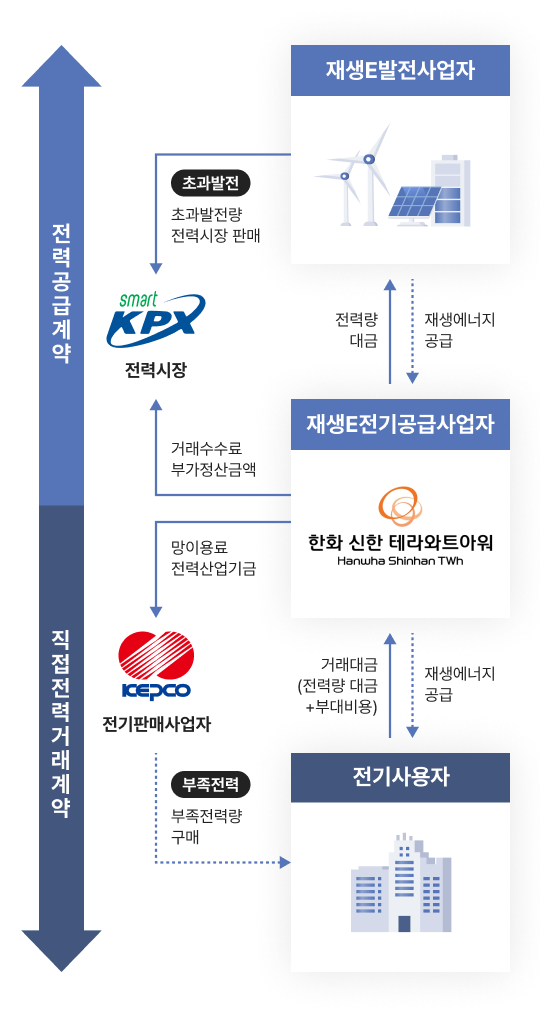
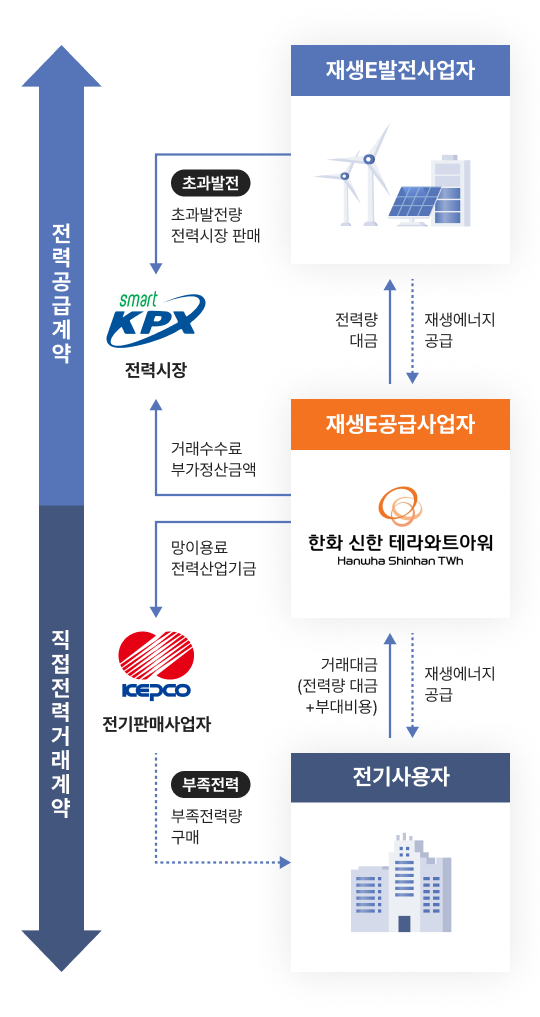
수정사항 1123 완료

Changed region(s): [[0.5333, 0.3658, 0.9481, 0.4572]]

diff --git a/src/css/page.css b/src/css/page.css
@@ -75,13 +75,14 @@ header.white + .mainPage .fullPager{--color: white;}
 .companyPage .historyArea strong{font-weight: 600; text-align: center; display: block;}
 .companyPage .historyArea ol::before{content: attr(title); font-weight: 600;}
 .companyPage .historyArea ol li{line-height: var(--lineHeight); --virtualColor: #DEDEDE; font-weight: 600; display: flex; align-items: flex-start;}
-.companyPage .historyArea ol li::before{content: ''; width: 8px; margin-right: 10px; aspect-ratio: 1; background-color: var(--virtualColor); border-radius: 100%; transform: translate(-50%, calc(var(--lineHeight) / 2 - 3px));}
+.companyPage .historyArea ol li::before{content: ''; flex-shrink: 0; aspect-ratio: 1; background-color: var(--virtualColor); border-radius: 100%; transform: translate(-50%, calc(var(--lineHeight) / 2 - 3px));}
 .companyPage .historyArea ol li:not(:last-child){position: relative;}
 .companyPage .historyArea ol li:not(:last-child)::after{content: ''; width: 2px; height: 100%; position: absolute; left: 0; top: calc(var(--lineHeight) / 2); background-color: var(--virtualColor); transform: translateX(-50%);}
 .companyPage .historyArea ol li small{line-height: var(--lineHeight); color: #999;}
 .companyPage .bottomArea{padding-block: var(--padding02); background: url('../images/company-bottomBG.png') no-repeat center / cover;}
 .companyPage .bottomArea::before{content: ''; display: block; aspect-ratio: 660 / 110; background: url(../images/logo2.png) no-repeat bottom center / cover;}
 .companyPage .bottomArea div{display: flex; justify-content: center; align-items: center; gap: 30px;}
+.companyPage .bottomArea div a b{margin-right: 0.2em;}
 
 
 /* 전력거래 솔루션, 발전자원 모집 페이지 공통 */
@@ -123,9 +124,9 @@ header.white + .mainPage .fullPager{--color: white;}
 .recruitPage .content-img{padding-block: var(--padding02) var(--padding03);}
 .recruitPage [class*="condition"][class*="Area"]{padding-bottom: var(--padding02); text-align: center;}
 .recruitPage [class*="condition"][class*="Area"] ul{display: flex;}
-.recruitPage [class*="condition"][class*="Area"] ul li{padding: var(--spacing); text-align: left; background-color: white; box-shadow: 0px 0px 40px 0px rgba(0, 0, 0, 0.07); box-sizing: border-box; position: relative;}
+.recruitPage [class*="condition"][class*="Area"] ul li{text-align: left; background-color: white; box-shadow: 0px 0px 40px 0px rgba(0, 0, 0, 0.07); box-sizing: border-box; position: relative;}
 .recruitPage [class*="condition"][class*="Area"] ul li > *{display: block;}
-.recruitPage [class*="condition"][class*="Area"] ul li span{color: #666; font-weight: 300;}
+.recruitPage [class*="condition"][class*="Area"] ul li span{font-weight: 300;}
 .recruitPage [class*="condition"][class*="Area"] ul li b{font-weight: 600;}
 .recruitPage [class*="condition"][class*="Area"] ul li small{color: #999;}
 .recruitPage [class*="condition"][class*="Area"] ul li::after{aspect-ratio: 170 / 130; content: ''; position: absolute; right: 0; bottom: var(--spacing); background-repeat: no-repeat; background-position: top calc(100% / (var(--styleTotal) - 1) * var(--styleIdx)) center; background-size: 100%;}
@@ -180,7 +181,7 @@ header.white + .mainPage .fullPager{--color: white;}
 
 
 /* 관리자 - 로그인 페이지 */
-.adminPage{height: var(--fullHeight); background-color: var(--color-BG02); display: flex; justify-content: center; align-items: center;}
+.adminPage{height: 100vh; background-color: var(--color-BG02); display: flex; justify-content: center; align-items: center;}
 .adminPage section{width: 540px; padding: 60px 90px 120px; background-color: white; box-shadow: 0px 0px 70px 0px rgba(0, 0, 0, 0.10); box-sizing: border-box;}
 .adminPage section h1{max-width: 260px; margin-inline: auto; margin-bottom: 60px;}
 .adminPage section h1 img{width: 100%;}
@@ -196,8 +197,8 @@ header.white + .mainPage .fullPager{--color: white;}
 /* 관리자 - 공지사항 관리 페이지 */
 .noticesListPage :is(.admin-board-title, .admin-board-list li a) > *:not(:nth-child(3)){width: 150px;}
 .noticesListPage :is(.admin-board-title, .admin-board-list li a) > *:nth-child(3){flex: 1;}
-.noticesListPage :is(.admin-board-title, .admin-board-list li a) > div{height: 100%; max-height: 48px;}
-.noticesListPage :is(.admin-board-title, .admin-board-list li a) > div img{height: 100%; object-fit: cover;}
+.noticesListPage :is(.admin-board-title, .admin-board-list li a) > div{height: 100%; max-height: 64px;}
+.noticesListPage :is(.admin-board-title, .admin-board-list li a) > div img{height: 100%; aspect-ratio: 96 / 64; object-fit: cover; border: 1px solid #F1F1F1; box-sizing: border-box;}
 .noticesListPage :is(.admin-board-title, .admin-board-list li a) > div img:not([src]){display: none;}
 
 

diff --git a/src/css/global.css b/src/css/global.css
@@ -146,17 +146,20 @@ body:has(.content-modal) .userPage [class*="Page"]{position: static;}
 .content-modal :is(.alertArea, .confirmArea) .btnArea button{aspect-ratio: 90 / 60;}
 .content-modal :is(.alertArea, .confirmArea) .btnArea button.black{background-color: #222; color: white;}
 .content-modal :is(.alertArea, .confirmArea) .btnArea button.border{border: 1px solid#222;}
-.adminsPage .content-modal > div{--paddingBlock: 35px; --paddingInline: 25px;}
-.adminsPage .content-modal > div strong{font-size: 21px; line-height: 1.375;}
-.adminsPage .content-modal > div .close{width: 26px;}
-.adminsPage .content-modal .infoArea{max-width: 600px;}
-.adminsPage .content-modal .infoArea strong{margin-bottom: 17.5px;}
-.adminsPage .content-modal .infoArea p{padding: 25px; font-size: 15px; line-height: 1.333;}
-.adminsPage .content-modal :is(.alertArea, .confirmArea){max-width: 450px;}
-.adminsPage .content-modal :is(.alertArea, .confirmArea) strong{margin-bottom: 25px;}
-.adminsPage .content-modal :is(.alertArea, .confirmArea) p{font-size: 18px;}
-.adminsPage .content-modal :is(.alertArea, .confirmArea) .btnArea{margin-top: 35px; gap: 10px;}
-.adminsPage .content-modal :is(.alertArea, .confirmArea) .btnArea button{width: 75px; font-size: 16px;}
+:is(.adminPage, .adminsPage) .content-modal > div{--paddingBlock: 30px; --paddingInline: 30px;}
+:is(.adminPage, .adminsPage) .content-modal > div strong{font-size: 20px; line-height: 35px;}
+:is(.adminPage, .adminsPage) .content-modal > div .close{width: 30px;}
+/* :is(.adminPage, .adminsPage) .content-modal .infoArea{max-width: 600px;}
+:is(.adminPage, .adminsPage) .content-modal .infoArea strong{margin-bottom: 17.5px;}
+:is(.adminPage, .adminsPage) .content-modal .infoArea p{padding: 25px; font-size: 15px; line-height: 1.333;} */
+:is(.adminPage, .adminsPage) .content-modal :is(.alertArea, .confirmArea){max-width: 400px;}
+:is(.adminPage, .adminsPage) .content-modal :is(.alertArea, .confirmArea) strong{margin-bottom: 20px;}
+:is(.adminPage, .adminsPage) .content-modal :is(.alertArea, .confirmArea) p{font-size: 15px; line-height: 22px;}
+:is(.adminPage, .adminsPage) .content-modal :is(.alertArea, .confirmArea) .btnArea{margin-top: 35px; gap: 10px;}
+:is(.adminPage, .adminsPage) .content-modal :is(.alertArea, .confirmArea) .btnArea button{width: 75px; font-size: 16px;}
+.adminPage .content-modal .alertArea dl{font-size: 13px; line-height: 18px; margin-top: 20px;}
+.adminPage .content-modal .alertArea dl dt{font-weight: 600; margin-bottom: 6px;}
+.adminPage .content-modal .alertArea dl dd{font-weight: 300;}
 .content-popup a{--width: 30px; max-width: 598px; width: calc(100% - (var(--spacing) * 2) - (var(--width) * 2)); aspect-ratio: 598 / 418; position: relative;}
 .content-popup a img{width: 100%; height: 100%; object-fit: cover;}
 .content-popup a button{position: absolute; width: var(--width); aspect-ratio: 1; background: url(../images/icon-close-white.png) no-repeat center / cover; text-indent: -9999px;}
@@ -281,7 +284,7 @@ div.content-btn input[type="checkbox"]:checked + label::before{--checkIdx:1;}
 .admin-input ul li > div:has(input[type="file"]) > *{width: 180px; height: 120px;}
 .admin-input ul li > div:has(input[type="file"]) label{border: 2px dotted #DEDEDE; display: flex; justify-content: center; align-items: center; box-sizing: border-box;}
 .admin-input ul li > div:has(input[type="file"]) div{position: relative;}
-.admin-input ul li > div:has(input[type="file"]) div img{width: 100%; height: 100%; object-fit: cover;}
+.admin-input ul li > div:has(input[type="file"]) div img{width: 100%; height: 100%; object-fit: cover; border: 1px solid #F1F1F1; box-sizing: border-box;}
 .admin-input ul li > div:has(input[type="file"]) div button.delete{position: absolute; right: 0; top: 0; transform: translate(50%, -50%);}
 .admin-input ul li > div:has(input[type="url"]){position: relative;}
 .admin-input ul li > div:has(input[type="url"]) input[type="url"]{padding-right: 52px;}

diff --git a/src/pages/SolutionPage.vue b/src/pages/SolutionPage.vue
@@ -78,7 +78,7 @@
                     </strong>
                     <p>
                         직접 PPA<br>
-                        제3자 간 PPA<br>
+                        제3자간 PPA<br>
                         V.PPA
                     </p>
                 </li>
@@ -115,13 +115,13 @@
                 <dt>*직접PPA</dt>
                 <dd>
                     재생에너지를 이용하여 생산된 전기를 전력시장을 통하지 않고<br>
-                    재생에너지 전기공급사업자를 통해 전기사용자에게 직접 공급하는 제도
+                    재생에너지전기공급사업자를 통해 전기사용자에게 직접 공급하는 제도
                 </dd>
             </dl>
         </div>
         
         <div class="PPA02Area content-img contentSize-padding">
-            <strong>제3 자간 PPA</strong>
+            <strong>제3자간 PPA</strong>
             <p>
                 발전사업자와 한국전력,<br class="mobile"> 한국전력과 전기사용자가<br>
                 각각 계약을 체결하는 방식
@@ -245,7 +245,7 @@
                                 <input type="checkbox" id="implementplan-PPA" name="implementplan" value="PPA" @input="onChange">
                                 <label for="implementplan-PPA">직접 PPA</label>
                                 <input type="checkbox" id="implementplan-REC" name="implementplan" value="REC구매" @input="onChange">
-                                <label for="implementplan-REC">제3자 간 PPA</label>
+                                <label for="implementplan-REC">제3자간 PPA</label>
                                 <input type="checkbox" id="implementplan-sunlight" name="implementplan" value="자가소비형 태양광 구축" @input="onChange">
                                 <label for="implementplan-sunlight">V.PPA</label>
                                 <input type="checkbox" id="implementplan-inquiry" name="implementplan" value="종합솔류션 문의" @input="onChange">
@@ -257,7 +257,7 @@
                             <div data-unit="GWh">
                                 <input type="text" id="annualusage" name="annualusage" placeholder="연간 전력사용량을 작성하세요." @input="onChange" data-formet="number">
                             </div>
-                            <small>다수의 사업장이 있을 경우 각 사업장 별 연간 전력 사용량을 내용에 적어주세요.</small>
+                            <small>다수의 사업장이 있을 경우, 각 사업장 별 연간 전력 사용량을 하단 상세 내용에 적어주세요.</small>
                         </li>
                         <li>
                             <label for="content">상세 내용</label>

diff --git a/src/css/page_desktop.css b/src/css/page_desktop.css
@@ -64,6 +64,7 @@
 .companyPage .historyArea ol::before{font-size: 60px; line-height: 72px; position: absolute; left: 0; top: 0;}
 .companyPage .historyArea ol li{width: 980px; font-size: 26px; --lineHeight: 31px;}
 .companyPage .historyArea ol li:first-child{margin-top: 12px;}
+.companyPage .historyArea ol li::before{width: 8px; margin-right: 12px;}
 .companyPage .historyArea ol li:not(:last-child){padding-bottom: 60px;}
 .companyPage .historyArea ol li small{font-size: 24px; margin-right: 40px;}
 .companyPage .bottomArea::before{content: ''; display: block; max-width: 660px; margin: 0 auto 60px;}
@@ -114,10 +115,10 @@
 .recruitPage .content-img .box-img{aspect-ratio: 1240 / 639.33; background-image: url(../images/recruit-RE100-PC.png);}
 .recruitPage [class*="condition"][class*="Area"] > b{margin-bottom: 60px;}
 .recruitPage [class*="condition"][class*="Area"] ul{gap: 30px;}
-.recruitPage [class*="condition"][class*="Area"] ul li{--spacing: 30px; height: 370px; flex: 1;}
-.recruitPage [class*="condition"][class*="Area"] ul li span{font-size: 22px; line-height: 30px; margin-bottom: 30px;}
+.recruitPage [class*="condition"][class*="Area"] ul li{--spacing: 30px; padding: 40px var(--spacing); height: 370px; flex: 1;}
+.recruitPage [class*="condition"][class*="Area"] ul li span{font-size: 22px; line-height: 30px; margin-bottom: 20px;}
 .recruitPage [class*="condition"][class*="Area"] ul li b{font-size: 26px; line-height: 36px; margin-bottom: 12px;}
-.recruitPage [class*="condition"][class*="Area"] ul li small{font-size: 20px; line-height: 26px;}
+.recruitPage [class*="condition"][class*="Area"] ul li small{font-size: 16px; line-height: 26px;}
 .recruitPage [class*="condition"][class*="Area"] ul li::after{width: 170px;}
 .recruitPage [class*="condition"][class*="Area"] p:last-child{font-size: 30px; line-height: 42px; margin-top: 80px;}
 .recruitPage .condition02Area strong{margin-bottom: 30px;}
@@ -128,7 +129,7 @@
 .recruitPage .textArea li::before,
 .recruitPage .textArea li::after{--height: 24px; transform: translateY(-17px);}
 .recruitPage .simplifyArea > p{margin-bottom: 100px;}
-.recruitPage .simplifyArea ul{display: flex; justify-content: space-between;}
+.recruitPage .simplifyArea ul{max-width: 1170px; margin-inline: auto; display: flex; justify-content: space-between;}
 .recruitPage .simplifyArea ul::before{width: 30px;}
 .recruitPage .simplifyArea ul li{width: 41.9354%; min-width: 520px;}
 .recruitPage .simplifyArea ul li b{font-size: 30px; line-height: 38px; margin-bottom: 20px;}

diff --git a/src/css/page_tablet.css b/src/css/page_tablet.css
@@ -54,6 +54,7 @@
 .companyPage .historyArea strong{font-size: 38px; line-height: 1.307; margin-bottom: 60px;}
 .companyPage .historyArea ol::before{font-size: 45px; line-height: 1.2; margin-bottom: 40px; display: block;}
 .companyPage .historyArea ol li{font-size: 21px; --lineHeight: 26.5px;}
+.companyPage .historyArea ol li::before{width: 7px; margin-right: 9px;}
 .companyPage .historyArea ol li:not(:last-child){padding-bottom: 45px;}
 .companyPage .historyArea ol li small{font-size: 19px; margin-right: 30px;}
 .companyPage .bottomArea::before{content: ''; display: block; max-width: 300px; margin: 0 auto 30px;}
@@ -110,11 +111,11 @@
 .recruitPage .content-img .box-img{aspect-ratio: 360 / 658; background-image: url(../images/recruit-RE100-M.png);}
 .recruitPage [class*="condition"][class*="Area"] > b{margin-bottom: 45px;}
 .recruitPage [class*="condition"][class*="Area"] ul{gap: 20px; flex-wrap: wrap; max-width: var(--mobileContentSize); margin-inline: auto;}
-.recruitPage [class*="condition"][class*="Area"] ul li{flex: 1; min-width: calc((100% - 20px) / 2); --spacing: 20px; height: 305px;}
-.recruitPage [class*="condition"][class*="Area"] ul li:nth-child(5){height: 205px;}
-.recruitPage [class*="condition"][class*="Area"] ul li span{font-size: 18px; line-height: 1.2857; margin-bottom: 20px;}
-.recruitPage [class*="condition"][class*="Area"] ul li b{font-size: 20.5px; line-height: 1.333; margin-bottom: 11px;}
-.recruitPage [class*="condition"][class*="Area"] ul li small{font-size: 16.5px; line-height: 1.3846;}
+.recruitPage [class*="condition"][class*="Area"] ul li{flex: 1; min-width: calc((100% - 20px) / 2); --spacing: 25px; padding: 30px var(--spacing); height: 350px;}
+.recruitPage [class*="condition"][class*="Area"] ul li:nth-child(5){height: 228px;}
+.recruitPage [class*="condition"][class*="Area"] ul li span{font-size: 18px; line-height: 1.2857; margin-bottom: 15px;}
+.recruitPage [class*="condition"][class*="Area"] ul li b{font-size: 21.5px; line-height: 1.352; margin-bottom: 11px;}
+.recruitPage [class*="condition"][class*="Area"] ul li small{font-size: 14px; line-height: 1.3333;}
 .recruitPage [class*="condition"][class*="Area"] ul li::after{width: 143.5px;}
 .recruitPage [class*="condition"][class*="Area"] p:last-child{font-size: 23px; line-height: 1.5; margin-top: 60px;}
 .recruitPage .condition02Area strong{margin-bottom: 25px;}

diff --git a/src/css/page_mobile.css b/src/css/page_mobile.css
@@ -53,6 +53,7 @@
 .companyPage .peopleArea ul li p{font-size: 15px; line-height: 1.6;}
 .companyPage .historyArea strong{font-size: 26px; line-height: 1.307; margin-bottom: 40px;}
 .companyPage .historyArea ol::before{font-size: 30px; line-height: 1.2; margin-bottom: 30px; display: block;}
+.companyPage .historyArea ol li::before{width: 6px; margin-right: 6px;}
 .companyPage .historyArea ol li{font-size: 16px; --lineHeight: 22px;}
 .companyPage .historyArea ol li:not(:last-child){padding-bottom: 30px;}
 .companyPage .historyArea ol li small{font-size: 14px; margin-right: 20px;}
@@ -109,12 +110,12 @@
 .recruitPage .content-img dl{margin-top: 10px;}
 .recruitPage .content-img .box-img{aspect-ratio: 360 / 658; background-image: url(../images/recruit-RE100-M.png);}
 .recruitPage [class*="condition"][class*="Area"] > b{margin-bottom: 30px;}
-.recruitPage [class*="condition"][class*="Area"] ul{gap: 20px; flex-wrap: wrap; max-width: var(--mobileContentSize); margin-inline: auto;}
-.recruitPage [class*="condition"][class*="Area"] ul li{flex: 1; min-width: calc((100% - 20px) / 2); --spacing: 18px; height: 250px;}
+.recruitPage [class*="condition"][class*="Area"] ul{gap: 12px; flex-wrap: wrap; max-width: var(--mobileContentSize); margin-inline: auto;}
+.recruitPage [class*="condition"][class*="Area"] ul li{flex: 1; min-width: calc((100% - 12px) / 2); --spacing: 20px; padding: var(--spacing); height: 230px;}
 .recruitPage [class*="condition"][class*="Area"] ul li:nth-child(5){height: 150px;}
 .recruitPage [class*="condition"][class*="Area"] ul li span{font-size: 14px; line-height: 1.2857; margin-bottom: 10px;}
-.recruitPage [class*="condition"][class*="Area"] ul li b{font-size: 15px; line-height: 1.333; margin-bottom: 10px;}
-.recruitPage [class*="condition"][class*="Area"] ul li small{font-size: 13px; line-height: 1.3846;}
+.recruitPage [class*="condition"][class*="Area"] ul li b{font-size: 17px; line-height: 1.352; margin-bottom: 10px;}
+.recruitPage [class*="condition"][class*="Area"] ul li small{font-size: 12px; line-height: 1.3333;}
 .recruitPage [class*="condition"][class*="Area"] ul li::after{width: 117px;}
 .recruitPage [class*="condition"][class*="Area"] p:last-child{font-size: 16px; line-height: 1.5; margin-top: 40px;}
 .recruitPage .condition02Area strong{margin-bottom: 20px;}

diff --git a/src/pages/admin/SignIn.vue b/src/pages/admin/SignIn.vue
@@ -17,28 +17,35 @@
                     <input type="submit" value="로그인" @click="onSubmit">
                 </fieldset>
             </form>
-            <modal-alert v-if="isModal" :isModal="isModal" @modalClose="modalClose" :modalText="modalText"/>
+            <div class="content-modal" v-if="isModal" @click="modalClose">
+                <div class="alertArea" @click.stop>
+                    <strong>알림</strong>
+                    <p>
+                        ID/PW를 확인하세요.<br>
+                        문제가 지속되는 경우 개발사에 문의하세요.
+                    </p>
+                    <dl>
+                        <dt>개발사 연락처</dt>
+                        <dd>
+                            <a href="tel:+8201082103442">(주)1985<br> 010.8210.3442 장혜령(PM)</a>
+                        </dd>
+                    </dl>
+                    <button class="close" @click.prevent="modalClose">모달 닫기</button>
+                </div>
+            </div>
         </section>
     </div>
 </template>
 <script>
 import * as api from '../../api/api'
-import ModalAlert from '@/components/modal/ModalAlert.vue';
 
 export default {
     name: 'SignIn',
-    components: { 
-        ModalAlert
-    },
     data(){
         return{
             inputsRequired: {},
             nextPagePath: '/admins/notices',
-            isModal: false,
-            modalText: {
-                title: '',
-                description: '',
-            }
+            isModal: false
         }
     },
     methods: {
@@ -52,8 +59,6 @@ export default {
                             sessionStorage.setItem('adminName', result.username)
                             this.$router.push({path: this.nextPagePath})
                         }else{
-                            this.modalText['title'] = '알림'
-                            this.modalText['description'] = 'ID/PW를 확인하세요.<br>문제가 지속되는 경우 개발사에 문의하세요<br><br> 개발사: <a href="tel:+8201082103442">(주)1985 010.8210.3442 장혜령(PM)</a>' 
                             this.isModal = true
                             api.dataInit(this.inputsRequired)
                         }

diff --git a/src/css/global_tablet.css b/src/css/global_tablet.css
@@ -92,18 +92,18 @@ b.case01{padding: 9px 25px; font-size: 19.5px; line-height: 1.2;}
 
 
 /* 모달 */
-.content-modal > div{--paddingBlock: 35px; --paddingInline: 25px;}
-.content-modal > div strong{font-size: 21px; line-height: 1.375;}
-.content-modal > div .close{width: 26px;}
-.content-modal .infoArea{max-width: 600px;}
-.content-modal .infoArea strong{margin-bottom: 17.5px;}
-.content-modal .infoArea p{padding: 25px; font-size: 15px; line-height: 1.333;}
-.content-modal :is(.alertArea, .confirmArea){max-width: 400px;}
-.content-modal :is(.alertArea, .confirmArea) strong{margin-bottom: 25px;}
-.content-modal :is(.alertArea, .confirmArea) p{font-size: 18px;}
-.content-modal :is(.alertArea, .confirmArea) .btnArea{margin-top: 35px; gap: 10px;}
-.content-modal :is(.alertArea, .confirmArea) .btnArea button{width: 75px; font-size: 16px;}
-.content-popup a button{right: calc((var(--width) + 15px) * -1); top: 0;}
+.userPage .content-modal > div{--paddingBlock: 35px; --paddingInline: 25px;}
+.userPage .content-modal > div strong{font-size: 21px; line-height: 1.375;}
+.userPage .content-modal > div .close{width: 26px;}
+.userPage .content-modal .infoArea{max-width: 600px;}
+.userPage .content-modal .infoArea strong{margin-bottom: 17.5px;}
+.userPage .content-modal .infoArea p{padding: 25px; font-size: 15px; line-height: 1.333;}
+.userPage .content-modal :is(.alertArea, .confirmArea){max-width: 400px;}
+.userPage .content-modal :is(.alertArea, .confirmArea) strong{margin-bottom: 25px;}
+.userPage .content-modal :is(.alertArea, .confirmArea) p{font-size: 18px;}
+.userPage .content-modal :is(.alertArea, .confirmArea) .btnArea{margin-top: 35px; gap: 10px;}
+.userPage .content-modal :is(.alertArea, .confirmArea) .btnArea button{width: 75px; font-size: 16px;}
+.userPage .content-popup a button{right: calc((var(--width) + 15px) * -1); top: 0;}
 
 
 /* 유저 해더 */

diff --git a/src/css/global_mobile.css b/src/css/global_mobile.css
@@ -92,18 +92,18 @@ b.case01{padding: 8px 20px; font-size: 15px; line-height: 1.2;}
 
 
 /* 모달 */
-.content-modal > div{--paddingBlock: 30px; --paddingInline: 20px;}
-.content-modal > div strong{font-size: 16px; line-height: 1.375;}
-.content-modal > div .close{width: 22px;}
-.content-modal .infoArea{max-width: 400px;}
-.content-modal .infoArea strong{margin-bottom: 15px;}
-.content-modal .infoArea p{padding: 20px; font-size: 12px; line-height: 1.333;}
-.content-modal :is(.alertArea, .confirmArea){max-width: 300px;}
-.content-modal :is(.alertArea, .confirmArea) strong{margin-bottom: 20px;}
-.content-modal :is(.alertArea, .confirmArea) p{font-size: 14px;}
-.content-modal :is(.alertArea, .confirmArea) .btnArea{margin-top: 30px; gap: 10px;}
-.content-modal :is(.alertArea, .confirmArea) .btnArea button{width: 45px; font-size: 12px;}
-.content-popup a button{right: 0; top: calc((var(--width) + 15px) * -1);}
+.userPage .content-modal > div{--paddingBlock: 30px; --paddingInline: 20px;}
+.userPage .content-modal > div strong{font-size: 16px; line-height: 1.375;}
+.userPage .content-modal > div .close{width: 22px;}
+.userPage .content-modal .infoArea{max-width: 400px;}
+.userPage .content-modal .infoArea strong{margin-bottom: 15px;}
+.userPage .content-modal .infoArea p{padding: 20px; font-size: 12px; line-height: 1.333;}
+.userPage .content-modal :is(.alertArea, .confirmArea){max-width: 300px;}
+.userPage .content-modal :is(.alertArea, .confirmArea) strong{margin-bottom: 20px;}
+.userPage .content-modal :is(.alertArea, .confirmArea) p{font-size: 14px;}
+.userPage .content-modal :is(.alertArea, .confirmArea) .btnArea{margin-top: 30px; gap: 10px;}
+.userPage .content-modal :is(.alertArea, .confirmArea) .btnArea button{width: 45px; font-size: 12px;}
+.userPage .content-popup a button{right: 0; top: calc((var(--width) + 15px) * -1);}
 
 
 /* 유저 해더 */

diff --git a/src/css/global_desktop.css b/src/css/global_desktop.css
@@ -95,18 +95,18 @@ b.case01{padding: 10px 30px; font-size: 24px; line-height: 34px;}
 
 
 /* 모달 */
-.content-modal > div{--paddingBlock: 40px; --paddingInline: 30px;}
-.content-modal > div strong{font-size: 26px; line-height: 30px;}
-.content-modal > div .close{width: 30px;}
-.content-modal .infoArea{max-width: 800px;}
-.content-modal .infoArea strong{margin-bottom: 20px;}
-.content-modal .infoArea p{padding: 30px; font-size: 18px; line-height: 26px;}
-.content-modal :is(.alertArea, .confirmArea){max-width: 600px;}
-.content-modal :is(.alertArea, .confirmArea) strong{margin-bottom: 30px;}
-.content-modal :is(.alertArea, .confirmArea) p{font-size: 22px;}
-.content-modal :is(.alertArea, .confirmArea) .btnArea{margin-top: 40px; gap: 10px;}
-.content-modal :is(.alertArea, .confirmArea) .btnArea button{width: 95px; font-size: 20px;}
-.content-popup a button{right: calc((var(--width) + 15px) * -1); top: 0;}
+.userPage .content-modal > div{--paddingBlock: 40px; --paddingInline: 30px;}
+.userPage .content-modal > div strong{font-size: 26px; line-height: 30px;}
+.userPage .content-modal > div .close{width: 30px;}
+.userPage .content-modal .infoArea{max-width: 800px;}
+.userPage .content-modal .infoArea strong{margin-bottom: 20px;}
+.userPage .content-modal .infoArea p{padding: 30px; font-size: 18px; line-height: 26px;}
+.userPage .content-modal :is(.alertArea, .confirmArea){max-width: 600px;}
+.userPage .content-modal :is(.alertArea, .confirmArea) strong{margin-bottom: 30px;}
+.userPage .content-modal :is(.alertArea, .confirmArea) p{font-size: 22px;}
+.userPage .content-modal :is(.alertArea, .confirmArea) .btnArea{margin-top: 40px; gap: 10px;}
+.userPage .content-modal :is(.alertArea, .confirmArea) .btnArea button{width: 95px; font-size: 20px;}
+.userPage .content-popup a button{right: calc((var(--width) + 15px) * -1); top: 0;}
 
 
 /* 유저 해더 */

diff --git a/src/pages/RecruitPage.vue b/src/pages/RecruitPage.vue
@@ -77,7 +77,7 @@
                 <dt>*직접PPA</dt>
                 <dd>
                     재생에너지를 이용하여 생산된 전기를 전력시장을 통하지 않고<br>
-                    재생에너지 전기공급사업자를 통해 전기사용자에게 직접 공급하는 제도
+                    재생에너지전기공급사업자를 통해 전기사용자에게 직접 공급하는 제도
                 </dd>
             </dl>
         </div>
@@ -91,7 +91,7 @@
             <ul data-styleIdx>
                 <li>
                     <span>설비 용량</span>
-                    <b>100kW 이상</b>
+                    <b>300kW 이상</b>
                     <small>*단일 발전소 기준</small>
                 </li>
                 <li>
@@ -194,6 +194,8 @@
                 </li>
             </ul>
         </div>
+
+        <hr class="case01">
 
         <div class="contentSize-padding">
             <p>
